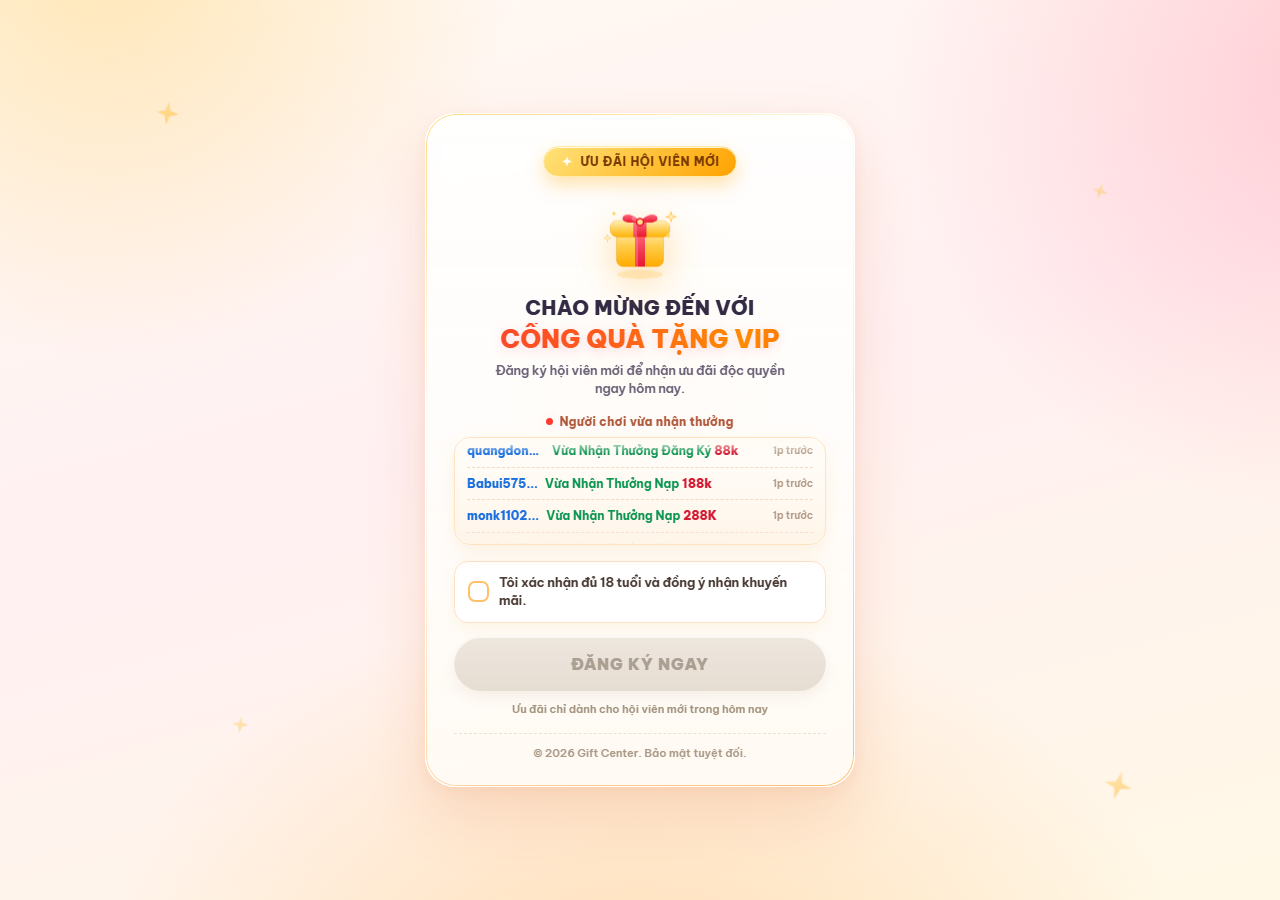
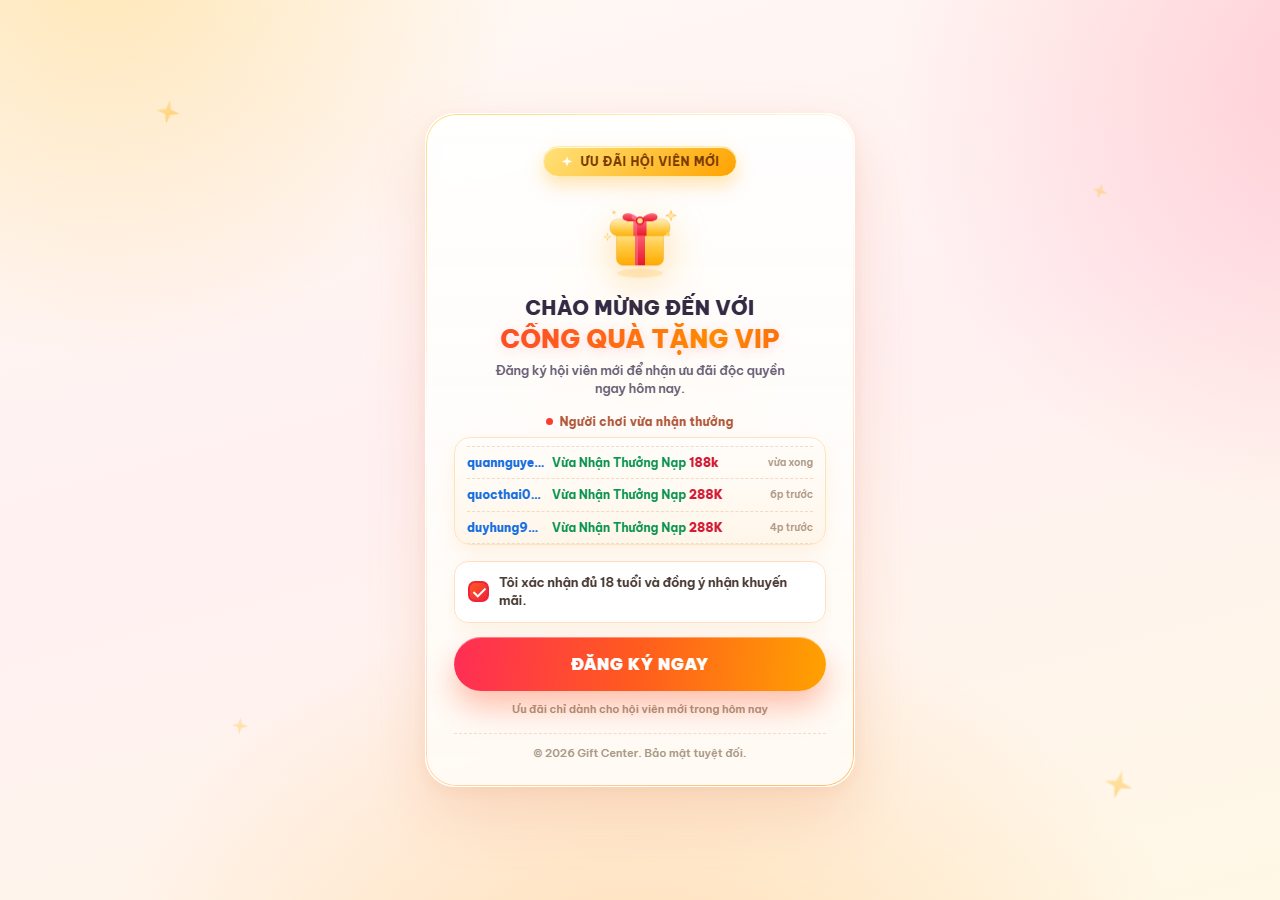
update
update

Changed region(s): [[0.3438, 0.6533, 0.6562, 0.8089], [0.3438, 0.4978, 0.6562, 0.5911], [0.4688, 0.2178, 0.5312, 0.2489]]

diff --git a/index.html b/index.html
@@ -211,16 +211,7 @@
     overflow: hidden;
     text-align: left;
   }
-  .ticker::before, .ticker::after {
-    content: "";
-    position: absolute; left: 0; right: 0; height: 16px;
-    z-index: 2; pointer-events: none;
-  }
-  .ticker::before { top: 0; background: linear-gradient(#fffaf2, rgba(255, 250, 242, 0)); }
-  .ticker::after { bottom: 0; background: linear-gradient(rgba(255, 246, 234, 0), #fff5e8); }
-
-  .ticker-track { animation: scrollUp 24s linear infinite; will-change: transform; }
-  .ticker:hover .ticker-track { animation-play-state: paused; }
+  .ticker-track { will-change: transform; padding: 6px 12px; }
 
   .ticker-group { padding: 6px 12px; }
 
@@ -249,8 +240,6 @@
   .act { flex: 1 1 auto; min-width: 0; overflow: hidden; text-overflow: ellipsis; font-weight: 700; color: var(--green); }
   .act b { font-weight: 900; color: var(--red-deep); }
   .when { flex: none; font-size: 10px; font-weight: 600; color: #b09a86; }
-
-  @keyframes scrollUp { from { transform: translateY(0); } to { transform: translateY(-50%); } }
 
   /* ---------- xác nhận 18+ ---------- */
   .confirm {
@@ -388,7 +377,6 @@
 
   @media (prefers-reduced-motion: reduce) {
     *, *::before, *::after { animation-duration: .001ms !important; animation-iteration-count: 1 !important; transition-duration: .001ms !important; }
-    .ticker-track { animation: none; }
   }
 </style>
 </head>
@@ -471,73 +459,26 @@
     <div class="ticker-label"><span class="live"></span> Người chơi vừa nhận thưởng</div>
 
     <div class="ticker" id="ticker">
-      <div class="ticker-track">
+      <div class="ticker-track" id="tickerTrack"></div>
+      <noscript>
         <div class="ticker-group">
           <div class="ticker-item">
-            <span class="who">quangdong...</span>
-            <span class="act">Vừa Nhận Thưởng Đăng Ký <b>88k</b></span>
-            <span class="when">1p trước</span>
-          </div>
-          <div class="ticker-item">
-            <span class="who">Babui575...</span>
-            <span class="act">Vừa Nhận Thưởng Nạp <b>188k</b></span>
-            <span class="when">1p trước</span>
-          </div>
-          <div class="ticker-item">
-            <span class="who">monk1102...</span>
-            <span class="act">Vừa Nhận Thưởng Nạp <b>288K</b></span>
-            <span class="when">1p trước</span>
-          </div>
-          <div class="ticker-item">
-            <span class="who">nvtv2007...</span>
-            <span class="act">Vừa Nhận Thưởng Đăng Ký <b>88k</b></span>
-            <span class="when">2p trước</span>
-          </div>
-          <div class="ticker-item">
-            <span class="who">Phanphung...</span>
-            <span class="act">Vừa Nhận Thưởng Nạp <b>188k</b></span>
-            <span class="when">2p trước</span>
-          </div>
-          <div class="ticker-item">
             <span class="who">hoangphuc...</span>
+            <span class="act">Vừa Nhận Thưởng Đăng Ký <b>88k</b></span>
+            <span class="when">1p trước</span>
+          </div>
+          <div class="ticker-item">
+            <span class="who">tuananh92...</span>
+            <span class="act">Vừa Nhận Thưởng Nạp <b>188k</b></span>
+            <span class="when">2p trước</span>
+          </div>
+          <div class="ticker-item">
+            <span class="who">linhchi88...</span>
             <span class="act">Vừa Nhận Thưởng Nạp <b>288K</b></span>
             <span class="when">3p trước</span>
           </div>
         </div>
-
-        <div class="ticker-group" aria-hidden="true">
-          <div class="ticker-item">
-            <span class="who">quangdong...</span>
-            <span class="act">Vừa Nhận Thưởng Đăng Ký <b>88k</b></span>
-            <span class="when">1p trước</span>
-          </div>
-          <div class="ticker-item">
-            <span class="who">Babui575...</span>
-            <span class="act">Vừa Nhận Thưởng Nạp <b>188k</b></span>
-            <span class="when">1p trước</span>
-          </div>
-          <div class="ticker-item">
-            <span class="who">monk1102...</span>
-            <span class="act">Vừa Nhận Thưởng Nạp <b>288K</b></span>
-            <span class="when">1p trước</span>
-          </div>
-          <div class="ticker-item">
-            <span class="who">nvtv2007...</span>
-            <span class="act">Vừa Nhận Thưởng Đăng Ký <b>88k</b></span>
-            <span class="when">2p trước</span>
-          </div>
-          <div class="ticker-item">
-            <span class="who">Phanphung...</span>
-            <span class="act">Vừa Nhận Thưởng Nạp <b>188k</b></span>
-            <span class="when">2p trước</span>
-          </div>
-          <div class="ticker-item">
-            <span class="who">hoangphuc...</span>
-            <span class="act">Vừa Nhận Thưởng Nạp <b>288K</b></span>
-            <span class="when">3p trước</span>
-          </div>
-        </div>
-      </div>
+      </noscript>
     </div>
 
     <label class="confirm" for="age">
@@ -565,6 +506,137 @@
     // true = mở tab mới, false = mở cùng tab
     newTab: false
   };
+  /* ========================================================= */
+
+  /* =========================================================
+     TICKER — data fake tự sinh liên tục, chạy vô hạn, không lặp
+     (mỗi dòng cuộn qua là 1 data mới, không trùng trang mẫu)
+     ========================================================= */
+  (function () {
+    var track = document.getElementById('tickerTrack');
+    if (!track) return;
+
+    // 60 nickname — không trùng tên với trang mẫu, đổi/thêm tùy ý
+    var NAMES = [
+      'hoangphuc', 'tuananh92', 'linhchi88', 'minhquan7x', 'dangkhoa14',
+      'thuylinh99', 'vietdung86', 'hoangnam2k', 'phuongthao7', 'trungkien88',
+      'ngocdiep2k', 'duyhung92', 'maianh96', 'quocthai07', 'haiminh88',
+      'thanhtung9x', 'vankhoa2k1', 'baongoc88', 'huonggiang9', 'sonpixi',
+      'nguyenvu88', 'dinhkhang2k', 'thanhha99', 'quannguyen9', 'tranduy2k',
+      'phamkhoa88', 'levuong9x', 'buianh96', 'dohung2k1', 'vuongphat',
+      'ngocanh9x', 'minhtri88', 'hoangyen2k', 'ducmanh07', 'thanhdat99',
+      'kimngan88', 'huutai9x', 'congthanh2k', 'vanhieu88', 'trungduc99',
+      'nguyenthu2k', 'quangvinh7x', 'phuongnam88', 'thuydung9x', 'manhtuan2k',
+      'hainguyen99', 'bichtram88', 'tuankiet07', 'thanhphong9', 'ngocmai2k',
+      'minhduc99', 'hoanghuy88', 'vietanh2k', 'sonthanh9x', 'kimlien88',
+      'ducthang2k1', 'quocbao99', 'anhkhoa07', 'thuonghieu9x', 'phucnguyen2k'
+    ];
+
+    // Nội dung thưởng — 3 dòng theo yêu cầu
+    var REWARDS = [
+      { action: 'Vừa Nhận Thưởng Đăng Ký', amount: '88k' },
+      { action: 'Vừa Nhận Thưởng Nạp', amount: '188k' },
+      { action: 'Vừa Nhận Thưởng Nạp', amount: '288K' }
+    ];
+
+    var TIMES = [
+      'vừa xong', 'vài giây trước', '30 giây trước',
+      '1p trước', '1p trước', '2p trước', '2p trước', '3p trước',
+      '4p trước', '5p trước', '6p trước', '7p trước', '8p trước',
+      '9p trước', '10p trước', '12p trước', '15p trước'
+    ];
+
+    var VISIBLE_ITEMS = 12; // số dòng giữ trong DOM (đủ lấp khung)
+    var SPEED = 24;         // tốc độ cuộn (px/giây)
+    var RECENT_MAX = 40;    // không lặp tên trong 40 dòng gần nhất
+
+    var recentNames = [];
+
+    function pick(list) {
+      return list[Math.floor(Math.random() * list.length)];
+    }
+
+    // chống trùng tên: random nhưng né 40 tên vừa xuất hiện
+    function pickName() {
+      var name = pick(NAMES);
+      for (var i = 0; i < 30 && recentNames.indexOf(name) !== -1; i++) {
+        name = pick(NAMES);
+      }
+      recentNames.push(name);
+      if (recentNames.length > RECENT_MAX) recentNames.shift();
+      return name;
+    }
+
+    function makeItem() {
+      var reward = pick(REWARDS);
+
+      var item = document.createElement('div');
+      item.className = 'ticker-item';
+
+      var who = document.createElement('span');
+      who.className = 'who';
+      who.textContent = pickName() + '...';
+
+      var act = document.createElement('span');
+      act.className = 'act';
+      act.appendChild(document.createTextNode(reward.action + ' '));
+
+      var amount = document.createElement('b');
+      amount.textContent = reward.amount;
+      act.appendChild(amount);
+
+      var when = document.createElement('span');
+      when.className = 'when';
+      when.textContent = pick(TIMES);
+
+      item.appendChild(who);
+      item.appendChild(act);
+      item.appendChild(when);
+      return item;
+    }
+
+    function fill() {
+      track.innerHTML = '';
+      var frag = document.createDocumentFragment();
+      for (var i = 0; i < VISIBLE_ITEMS; i++) frag.appendChild(makeItem());
+      track.appendChild(frag);
+    }
+
+    fill();
+
+    // Người dùng bật "giảm chuyển động" -> giữ danh sách tĩnh
+    var reduceMotion = window.matchMedia && window.matchMedia('(prefers-reduced-motion: reduce)').matches;
+    if (reduceMotion) return;
+
+    var offset = 0;
+    var lastTs = 0;
+
+    function step(ts) {
+      if (!lastTs) lastTs = ts;
+      // giới hạn dt để tab bị treo không làm nhảy dòng
+      var dt = Math.min((ts - lastTs) / 1000, 0.1);
+      lastTs = ts;
+
+      offset += SPEED * dt;
+
+      // dòng đầu cuộn hết -> xoá nó, chèn data fake mới ở cuối
+      // => chạy vô hạn, mỗi dòng chỉ xuất hiện 1 lần, không lặp
+      var first = track.firstElementChild;
+      while (first) {
+        var firstH = first.getBoundingClientRect().height || 33;
+        if (offset < firstH) break;
+        offset -= firstH;
+        track.removeChild(first);
+        track.appendChild(makeItem());
+        first = track.firstElementChild;
+      }
+
+      track.style.transform = 'translate3d(0,' + (-offset).toFixed(2) + 'px,0)';
+      window.requestAnimationFrame(step);
+    }
+
+    window.requestAnimationFrame(step);
+  })();
   /* ========================================================= */
 
   var checkbox = document.getElementById('age');

diff --git a/README.md b/README.md
@@ -12,7 +12,7 @@ Landing page **1 bước** bằng **HTML thuần** (toàn bộ CSS + JS nằm tr
 |---|---|
 | Badge "Ưu đãi hội viên mới" | Dải vàng nổi bật |
 | Icon quà tặng + tiêu đề | "Chào mừng đến với Cổng Quà Tặng VIP" |
-| Bảng "Người chơi vừa nhận thưởng" | 3 dòng thưởng: **Đăng Ký 88k / Nạp 188k / Nạp 288K**, tự chạy, dừng khi rê chuột |
+| Bảng "Người chơi vừa nhận thưởng" | **Tự sinh data fake liên tục** (60 tên + 17 mốc thời gian, tên không lặp trong 40 dòng), chạy vô hạn, không trùng tên trang mẫu. 3 dòng thưởng: **Đăng Ký 88k / Nạp 188k / Nạp 288K** |
 | Checkbox 18+ | Bắt buộc tích thì nút mới bấm được |
 | Nút "ĐĂNG KÝ NGAY" | Sáng màu cam–đỏ, bấm là chuyển thẳng tới link đài |
 | Footer | © 2026 Gift Center. Bảo mật tuyệt đối. |
@@ -30,6 +30,25 @@ var CONFIG = {
   newTab: false         // true = mở tab mới
 };
 ```
+
+## Tùy chỉnh ticker (data fake)
+
+Trong `index.html`, khối `TICKER` cuối trang có các biến dễ sửa:
+
+```js
+var NAMES = ['hoangphuc', 'tuananh92', ...];  // 60 nickname, không trùng trang mẫu
+var REWARDS = [                               // nội dung thưởng
+  { action: 'Vừa Nhận Thưởng Đăng Ký', amount: '88k' },
+  { action: 'Vừa Nhận Thưởng Nạp',     amount: '188k' },
+  { action: 'Vừa Nhận Thưởng Nạp',     amount: '288K' }
+];
+var TIMES = ['vừa xong', '1p trước', ...];    // 17 nhãn thời gian
+var VISIBLE_ITEMS = 12;                       // số dòng giữ trong DOM
+var SPEED = 24;                               // tốc độ cuộn (px/giây)
+var RECENT_MAX = 40;                          // không lặp tên trong 40 dòng gần nhất
+```
+
+Cách chạy: mỗi lần một dòng cuộn hết lên trên, dòng đó bị xoá và **một dòng data fake mới được sinh ra ở cuối** → chạy vô hạn, không bao giờ lặp lại y nguyên, không cần clone danh sách. Tổ hợp 60 tên × 3 mức thưởng × 17 mốc thời gian ≈ **3.000 dòng khác nhau**, tên không trùng cả 40 dòng gần nhất và **không dùng tên của trang mẫu** (quangdong, Babui575, monk1102, nvtv2007, Phanphung…).
 
 ## Chạy thử
 
